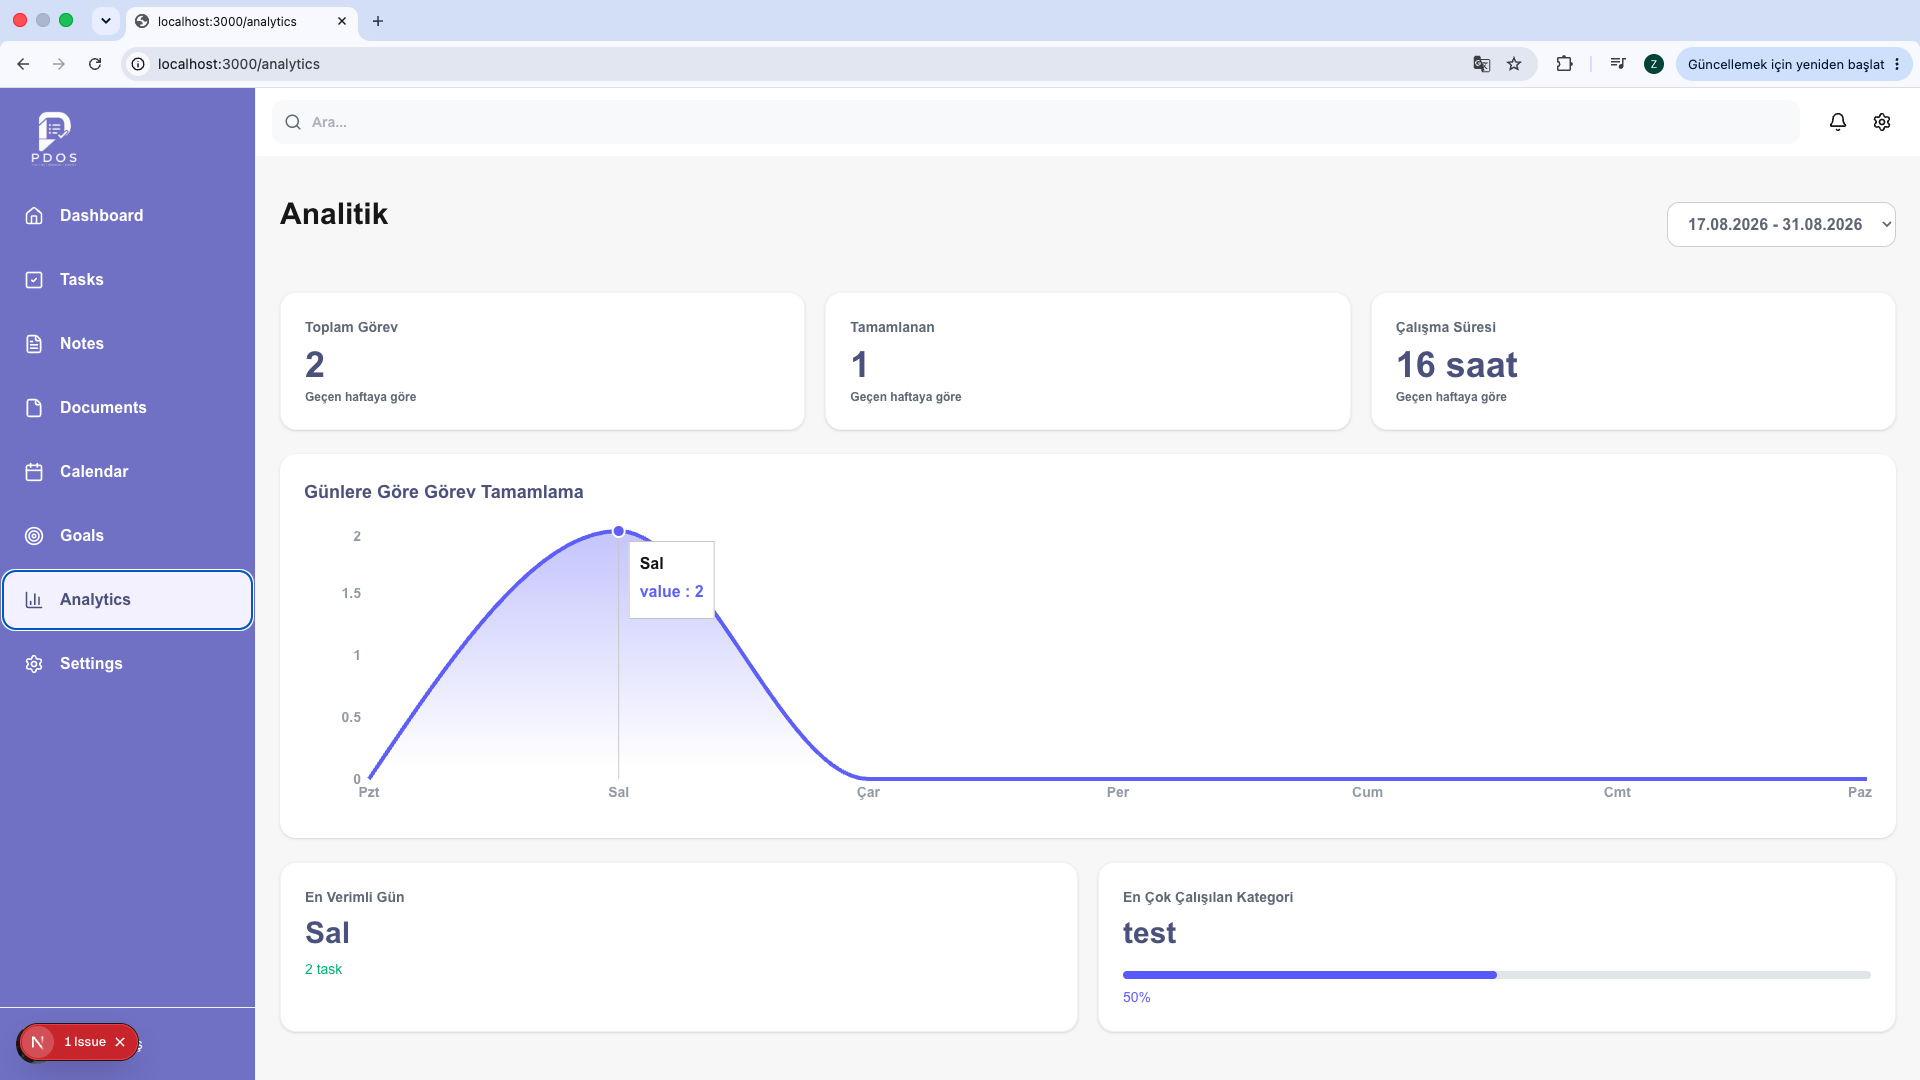
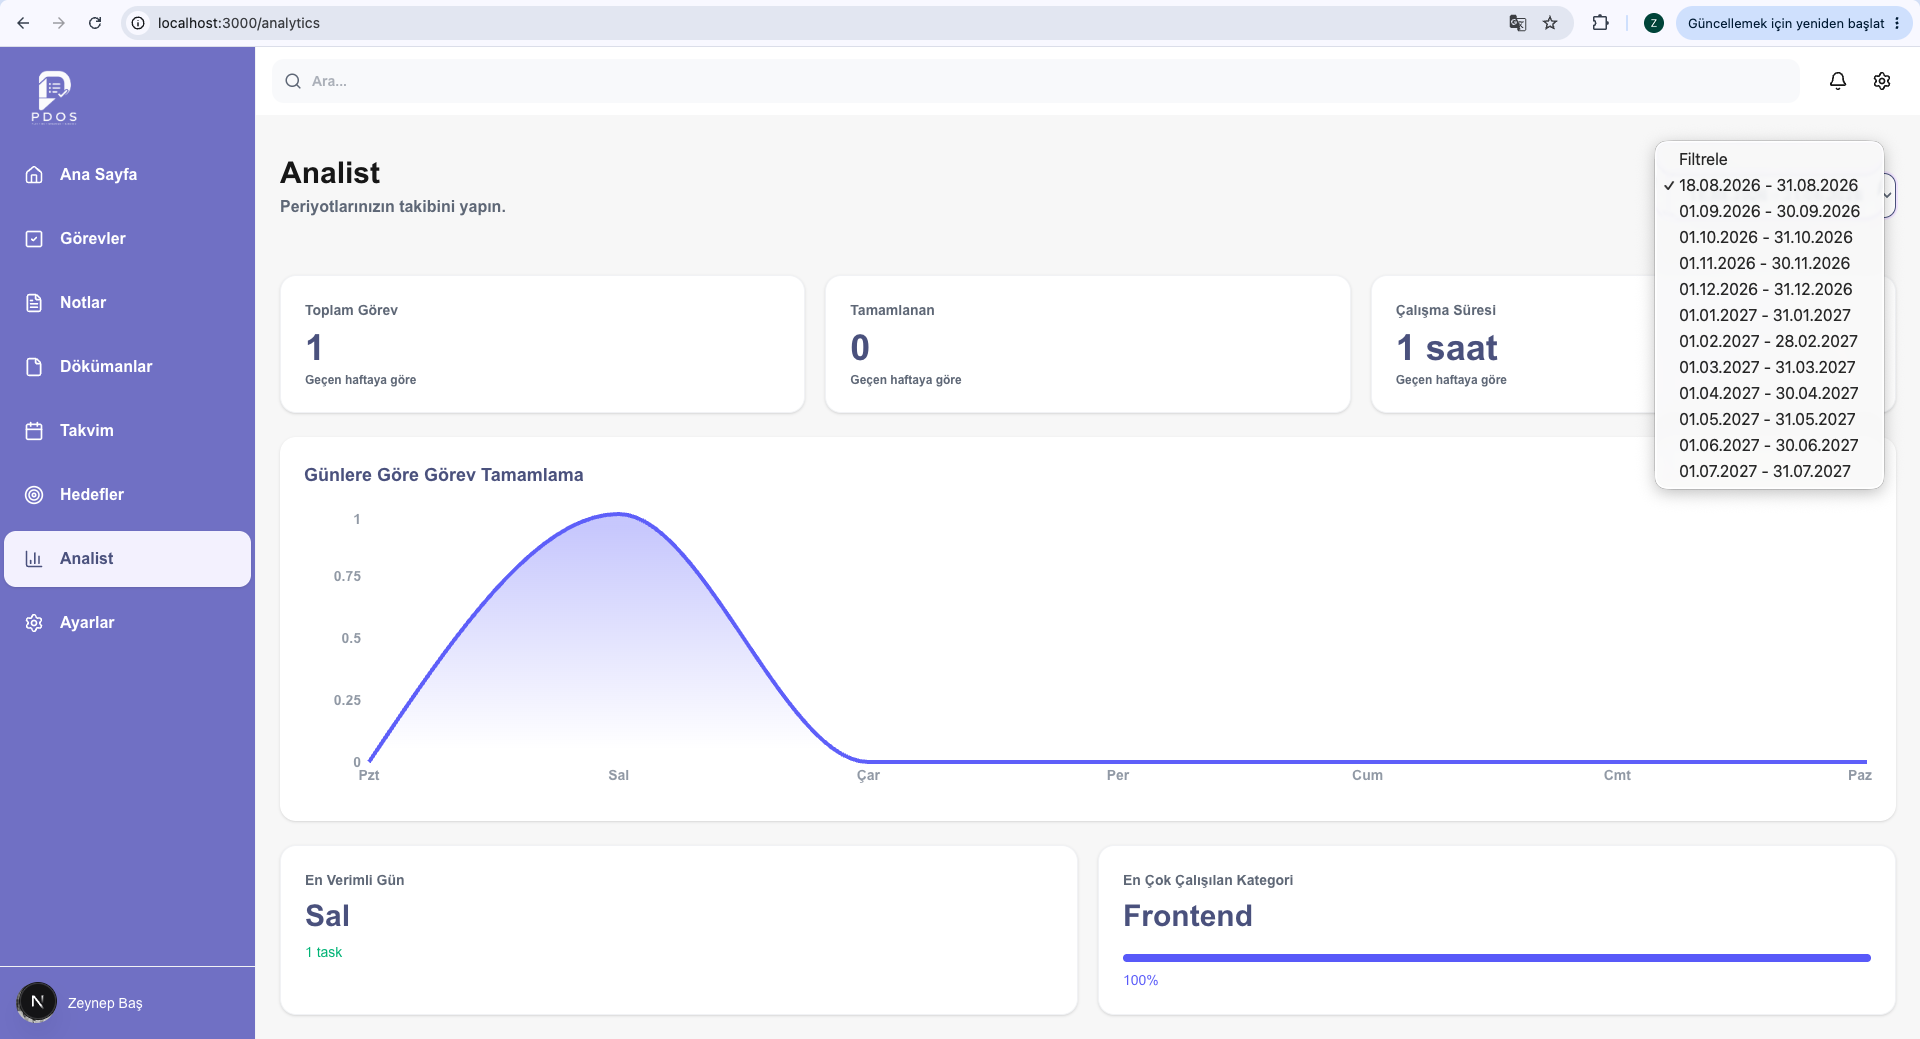
-

diff --git a/client/src/features/goals/components/GoalsHeading/GoalsHeading.js b/client/src/features/goals/components/GoalsHeading/GoalsHeading.js
@@ -6,7 +6,7 @@ export default function TaskHeading() {
   const router = useRouter();
   return (
     <header  className="flex flex-col gap-4 md:flex-row py-4 md:items-center md:justify-between">
-        <PageHeader title="Kariyer" description="Kariyer hedeflerinizi yönetin" />
+        <PageHeader title="Hedefler" description="Kariyer hedeflerinizi yönetin" />
 
       <Button
         text="+ Yeni Hedef"

diff --git a/client/src/features/analytics/components/AnalyticsHome/AnalyticsHome.js b/client/src/features/analytics/components/AnalyticsHome/AnalyticsHome.js
@@ -29,7 +29,8 @@ export default function AnalyticsHome({
 
 <div className="flex flex-col gap-4 md:flex-row py-4 md:items-center md:justify-between">
         <PageHeader
-          title="Analitik"
+          title="Analist"
+          description="Periyotlarınızın takibini yapın."
    
         />
 

diff --git a/client/src/features/documents/components/DocumentsHome/DocumentsHome.js b/client/src/features/documents/components/DocumentsHome/DocumentsHome.js
@@ -44,7 +44,7 @@ export default function DocumentsHome({
 
     <div className="flex flex-col gap-4 md:flex-row py-4 md:items-center md:justify-between">
     <PageHeader
-      title="Belgelerim"
+      title="Dökümanlar"
       description="Belgelerinizi görüntüleyin ve yönetin."
     />
 
